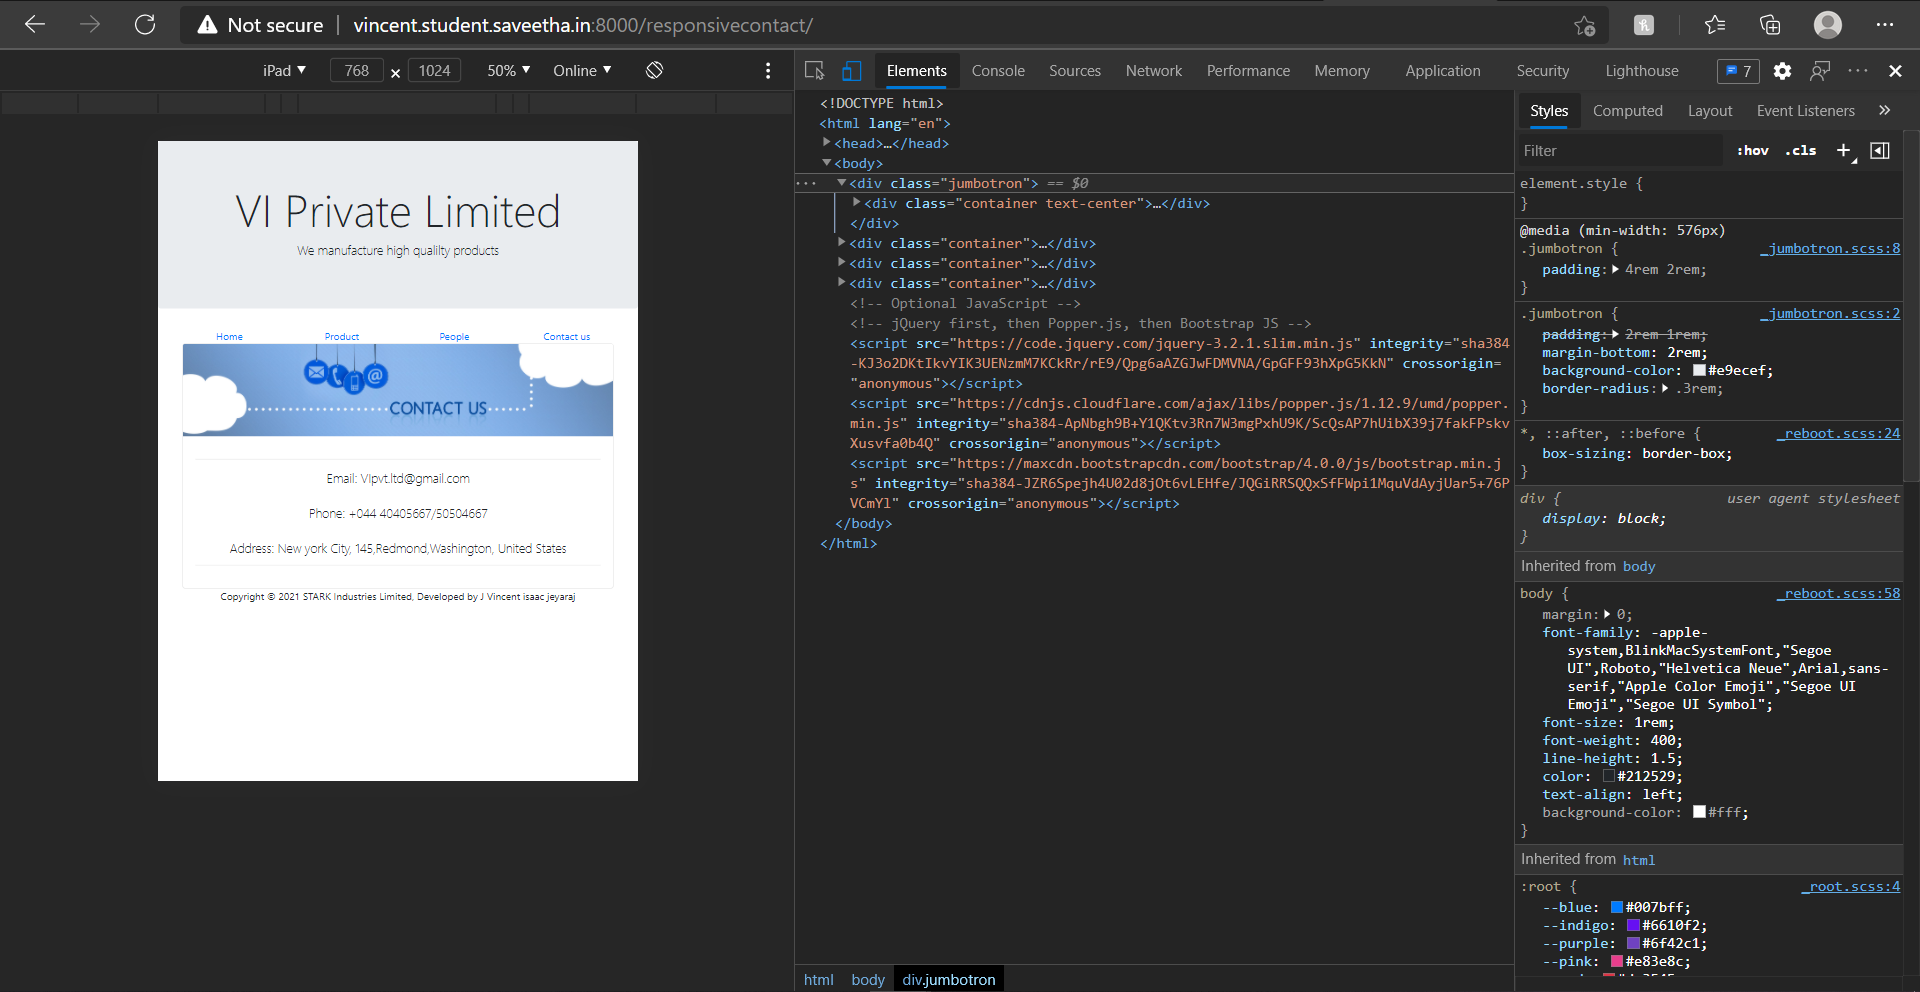
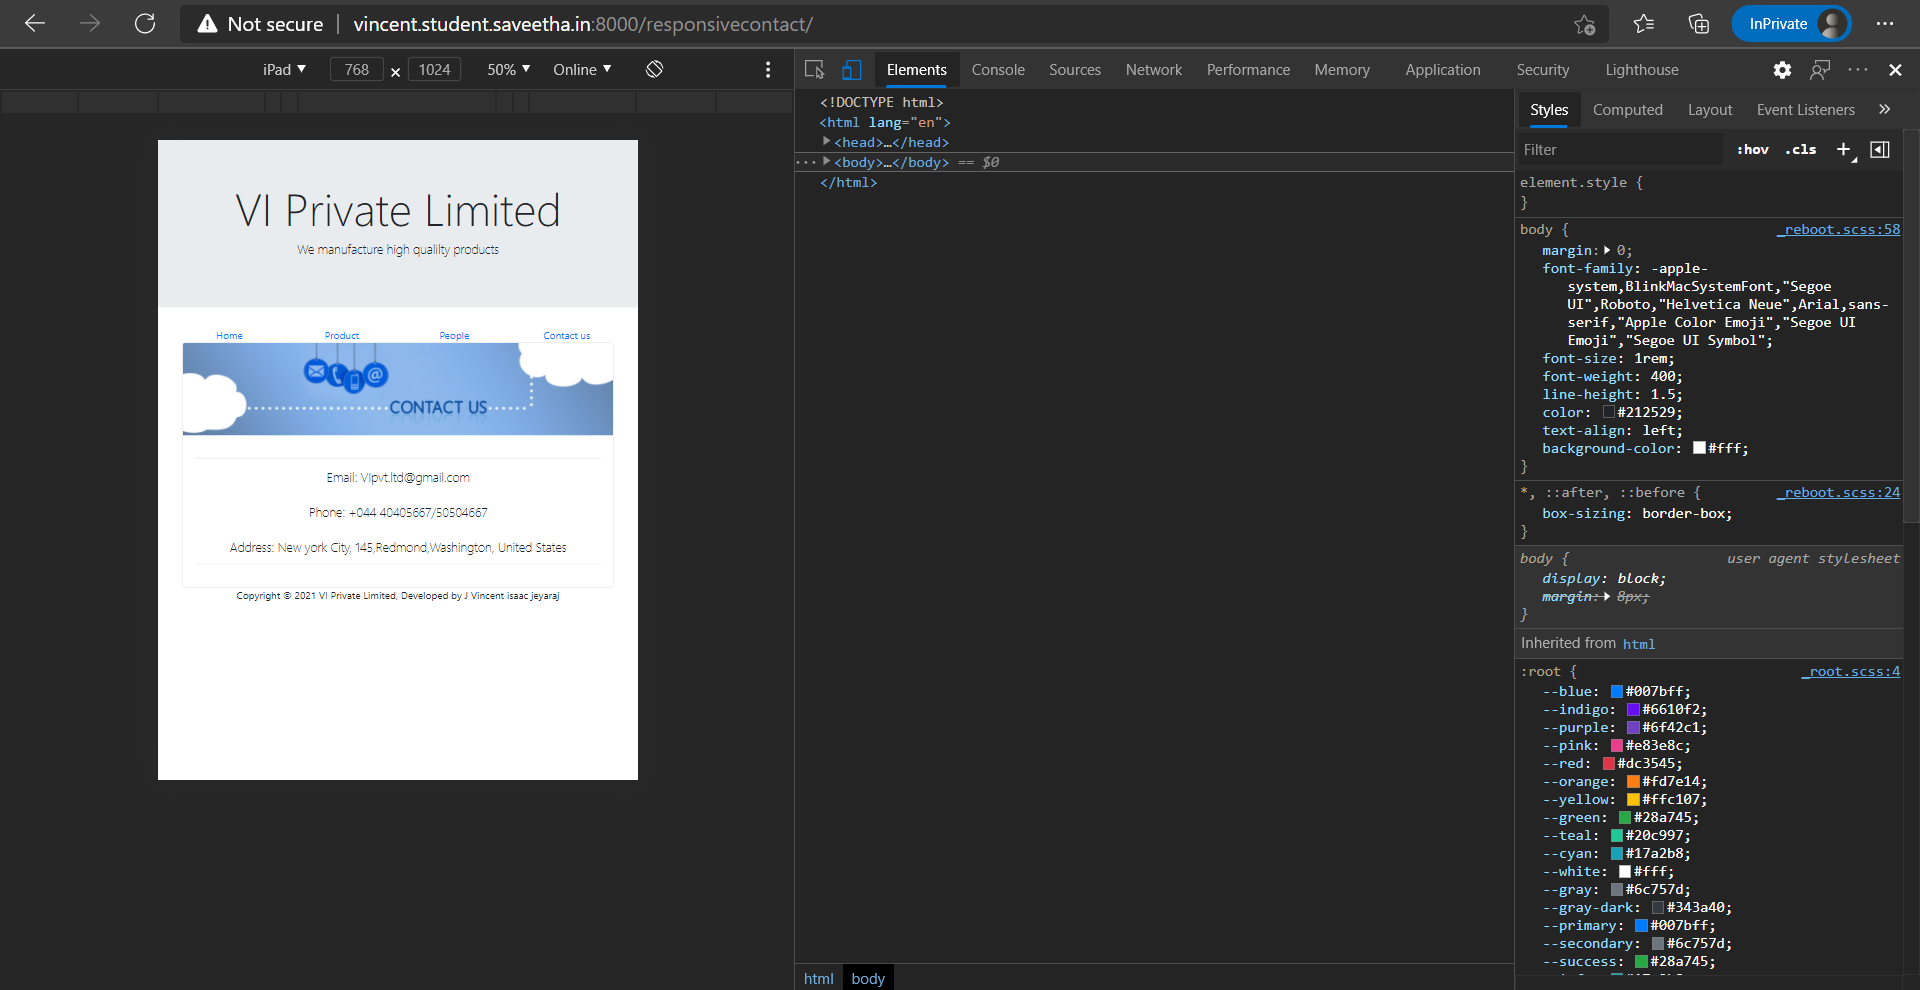
responsive-website

diff --git a/design/templates/design/base.html b/design/templates/design/base.html
@@ -33,7 +33,7 @@
     <div class="container">
         <div class="row align-items-end">
             <div class="col text-center">
-                Copyright © 2021 STARK Industries Limited, Developed by J Vincent isaac jeyaraj
+                Copyright © 2021 VI Private Limited, Developed by J Vincent isaac jeyaraj
             </div>
         </div>
     </div>

diff --git a/README.md b/README.md
@@ -61,7 +61,7 @@ Publish the website in the given URL.
     <div class="container">
         <div class="row align-items-end">
             <div class="col text-center">
-                Copyright © 2021 STARK Industries Limited, Developed by J Vincent isaac jeyaraj
+                Copyright © 2021 VI Private Limited, Developed by J Vincent isaac jeyaraj
             </div>
         </div>
     </div>
